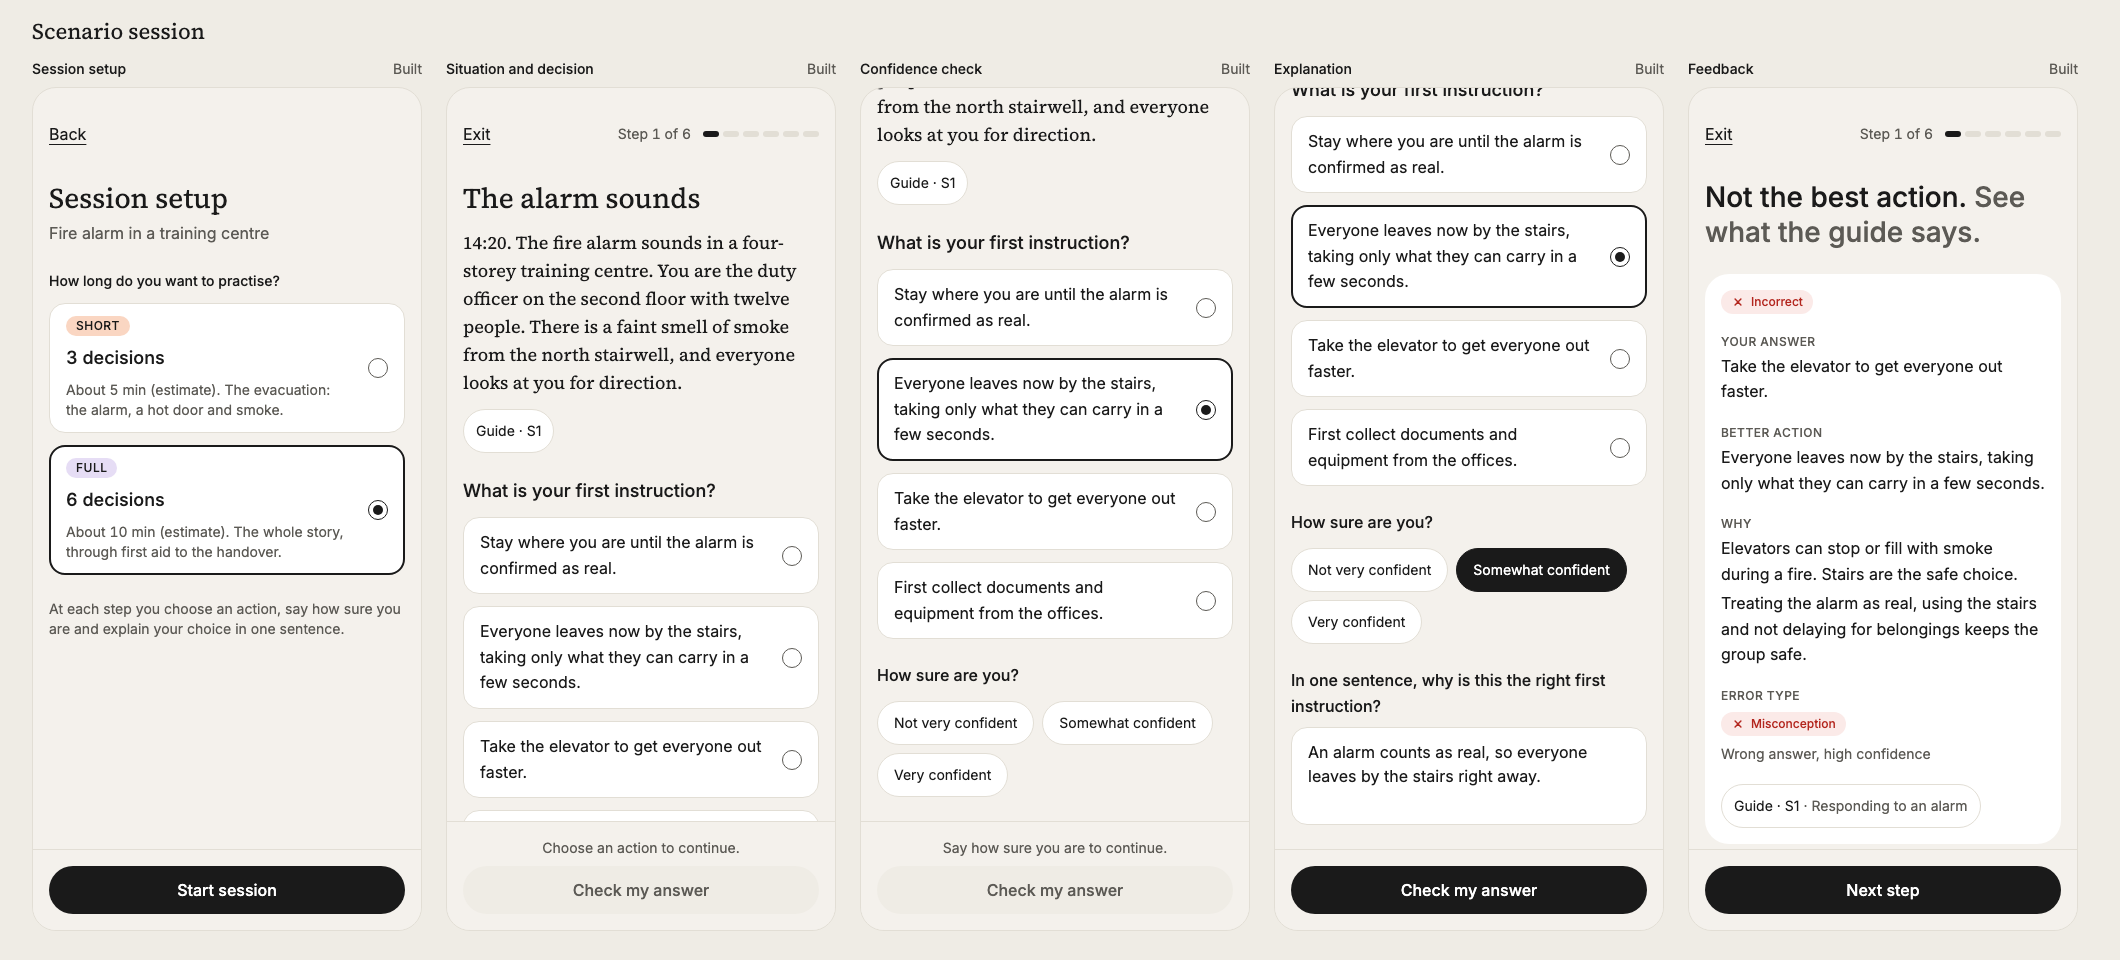
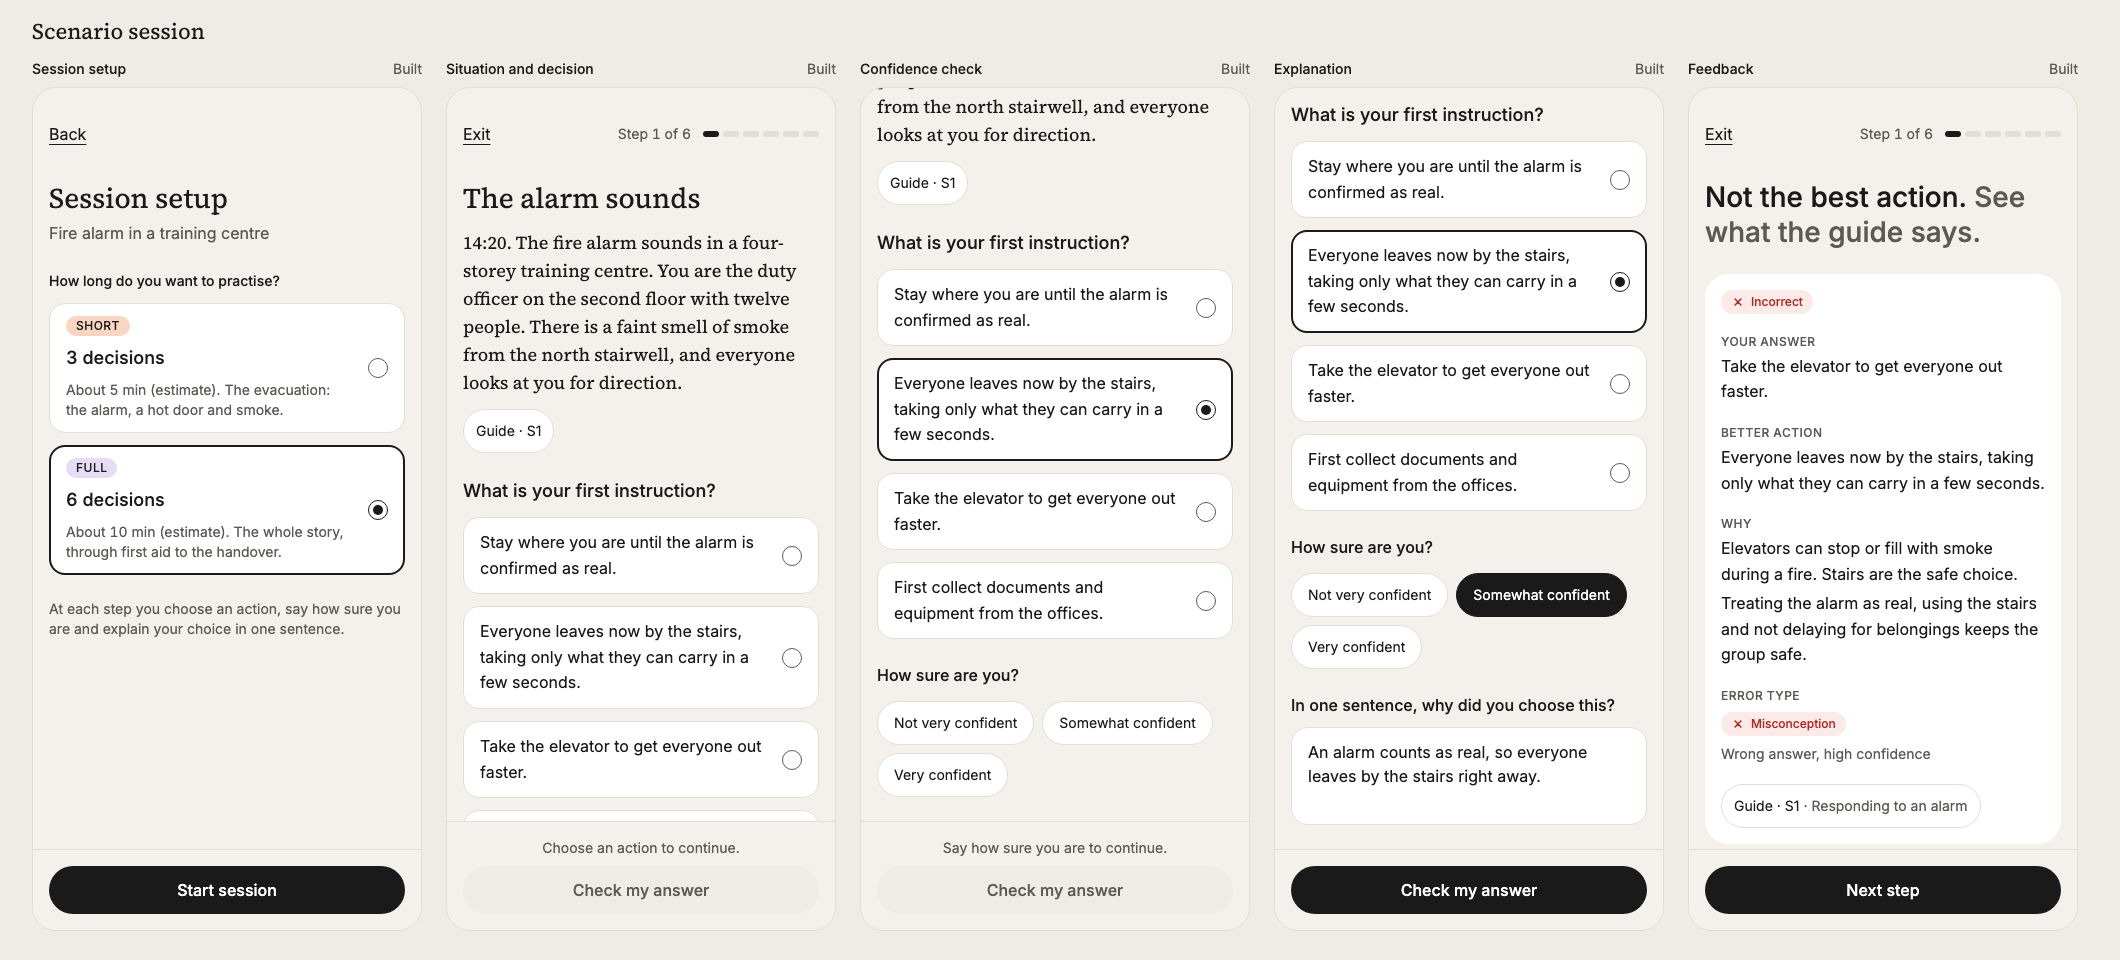
feat: ask a neutral explanation prompt and keep the follow-up question in feedback
The step's follow-up question could assume the choice was right, so the
explanation box now always asks "In one sentence, why did you choose this?".
Adds feedback tests.

Changed region(s): [[0.5915, 0.0938, 0.7783, 0.75]]

diff --git a/lib/feedback.test.ts b/lib/feedback.test.ts
@@ -1,0 +1,34 @@
+import { describe, expect, it } from "vitest";
+import { explanationPrompt } from "@/components/DecisionStep/DecisionStep";
+import { simulatedFeedback } from "@/lib/feedback";
+import { getStep, scenario } from "@/lib/scenario";
+
+describe("simulatedFeedback", () => {
+  it("brings the step's follow-up question and key points into the feedback", () => {
+    const step = getStep("s1");
+    const feedback = simulatedFeedback.evaluate(step, { optionId: "b", confidence: 3 });
+    expect(feedback.followUp).toBe(step.followUp);
+    expect(feedback.keyBeats).toEqual(step.explanationKeyBeats);
+    expect(feedback.sources).toEqual(["S1"]);
+  });
+
+  it("returns the chosen and the better option for a wrong answer", () => {
+    const feedback = simulatedFeedback.evaluate(getStep("s2"), { optionId: "b", confidence: 3 });
+    expect(feedback.correct).toBe(false);
+    expect(feedback.chosen.id).toBe("b");
+    expect(feedback.best.id).toBe("c");
+    expect(feedback.errorType).toBe("misconception");
+  });
+
+  it("offers the not-covered question only on the smoke step", () => {
+    const withQuestion = scenario.steps.filter((step) => step.suggestedQuestion);
+    expect(withQuestion.map((step) => step.id)).toEqual(["s3"]);
+  });
+});
+
+describe("explanation prompt", () => {
+  it("is neutral and never one of the steps' follow-up questions", () => {
+    expect(explanationPrompt).toBe("In one sentence, why did you choose this?");
+    scenario.steps.forEach((step) => expect(step.followUp).not.toBe(explanationPrompt));
+  });
+});

diff --git a/components/DecisionStep/DecisionStep.tsx b/components/DecisionStep/DecisionStep.tsx
@@ -17,6 +17,9 @@ export type Draft = {
 
 export const emptyDraft: Draft = { optionId: null, confidence: null, explanation: "" };
 
+/** Neutral on purpose: the step's follow-up question can assume the choice was right. */
+export const explanationPrompt = "In one sentence, why did you choose this?";
+
 function blockingHint(draft: Draft) {
   if (!draft.optionId) return "Choose an action to continue.";
   if (!draft.confidence) return "Say how sure you are to continue.";
@@ -80,7 +83,7 @@ export function DecisionStep({
 
       {draft.optionId && draft.confidence && (
         <ExplanationField
-          label={step.followUp}
+          label={explanationPrompt}
           value={draft.explanation}
           onChange={(explanation) => onDraftChange({ ...draft, explanation })}
         />

diff --git a/components/FeedbackView/FeedbackView.tsx b/components/FeedbackView/FeedbackView.tsx
@@ -95,7 +95,7 @@ export function FeedbackView({
           </h2>
           <p className="text-base text-text">{feedback.followUp}</p>
           <div className="flex flex-col gap-1">
-            <h3 className="font-medium text-text">Your answer</h3>
+            <h3 className="font-medium text-text">Your explanation</h3>
             <p className="italic">{explanation}</p>
           </div>
           <div className="flex flex-col gap-1">

diff --git a/DESIGN.md b/DESIGN.md
@@ -108,10 +108,10 @@ Every component needs: default, hover, focus-visible, active, disabled. Inputs a
 - Practice step (progressive reveal): options first. After an option is chosen, show the confidence selector. After a confidence level is chosen, show the explanation field. Submit is enabled only when all three are filled. Once submitted, everything locks.
 - Feedback block: two-tone headline, then verdict (icon + label) → your answer vs the correct answer → why → error type (knowledge gap / misconception / guess / secure) → source link.
   - Primary block (white card): verdict, your answer vs correct, why and error type.
-  - Secondary blocks below, separated by 32px: consequence ("What happened"), then the AI follow-up as a tutor message: the step's follow-up question, the user's own sentence under "Your answer", then "Points a strong answer covers". Secondary blocks use the 14 secondary scale in `--text-secondary`. Hierarchy comes from type and spacing, not colour.
+  - Secondary blocks below, separated by 32px: consequence ("What happened"), then the AI follow-up as a tutor message: the step's follow-up question (shown only here, never before the answer), the user's own sentence under "Your explanation", then "Points a strong answer covers". Secondary blocks use the 14 secondary scale in `--text-secondary`. Hierarchy comes from type and spacing, not colour.
   - The user's explanation is never graded. Show it unchanged next to the key beats and label the key beats as a reference list, not a score.
   - Not covered by the material: under the smoke step's feedback, an "Ask about this step" block with one tappable suggested question that the guide does not answer. The trainee taps it; the AI never asks it on its own. The answer says "This is not covered by the material." and then "Closest sections in the guide:" with source chips. Neutral style, no warning colour.
-- Explanation field: multi-line text input, 3 rows, 16px radius, label is the step's follow-up question, optional counter in 14 `--text-secondary`. States: default, hover, focus-visible, disabled (locked after submit), error. Error: 1px `--wrong` border, an icon and a text message below (for example "Write one sentence before you submit."). Never colour alone.
+- Explanation field: multi-line text input, 3 rows, 16px radius, label is always the neutral prompt "In one sentence, why did you choose this?" (never the step's follow-up question, which can assume the choice was right), optional counter in 14 `--text-secondary`. States: default, hover, focus-visible, disabled (locked after submit), error. Error: 1px `--wrong` border, an icon and a text message below (for example "Write one sentence before you submit."). Never colour alone.
 - Status badge: icon + label + colour, used for the error type and the verdict. Labels in sentence case.
   - Secure: check icon, `--correct` on `--correct-bg`.
   - Guess: question-mark icon, neutral outlined badge: `--text-secondary` on `--surface-muted`, 1px `--border`.

diff --git a/CLAUDE.md b/CLAUDE.md
@@ -31,7 +31,7 @@ In:
 2. Home: continue session, weak topics, new scenario.
 3. Materials: list, material page, and an upload flow as a screen sequence (choose a file, processing, then the prepared sample guide). The file is never read or sent; the UI says the prototype uses a prepared scenario.
 4. Session setup: Short (3 decisions, steps 1 to 3, about 5 min) or Full (6 decisions, about 10 min). Times are estimates and labelled as such.
-5. Scenario session from the JSON: choose an option, rate confidence, write a one-sentence explanation, see the scripted AI follow-up and the consequence. The source sheet is available throughout.
+5. Scenario session from the JSON: choose an option, rate confidence, write a one-sentence explanation (neutral prompt: "In one sentence, why did you choose this?"), then see the consequence and the scripted AI follow-up question in the feedback. The source sheet is available throughout.
 6. Feedback: your answer vs correct, why, error type (knowledge gap / misconception / guess / secure, derived from correctness + confidence), source link. Under the smoke step, a tappable suggested question ("Ask about this step") shows the honest "This is not covered by the material." answer with the closest guide sections. The AI never asks it on its own.
 7. Session results: summary, error analysis with sources, repeat weak topics (replays the wrong or guessed steps).
 8. Progress: weak topics and session history, saved in the browser on this device (`localStorage`).
